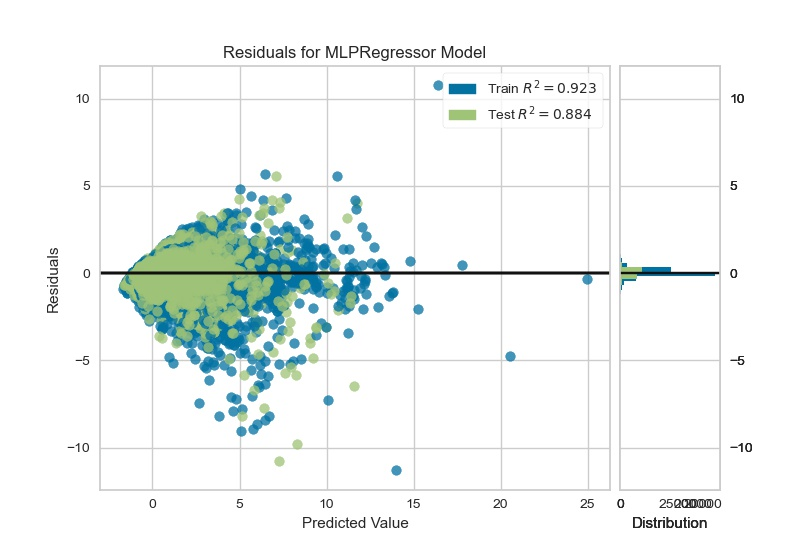
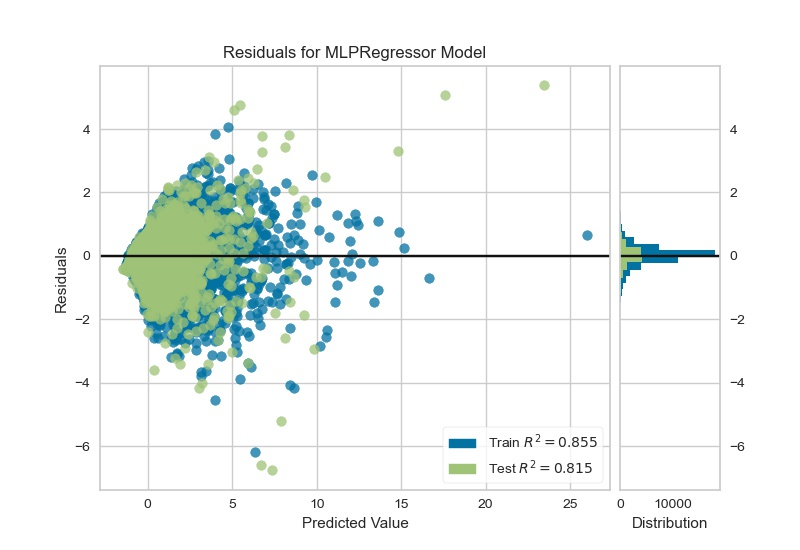
last changes

diff --git a/train_data_sklearn.py b/train_data_sklearn.py
@@ -1,80 +1,39 @@
+import pickle
+
 import numpy as np
 import pandas as pd
 from pandas import Series,DataFrame
 import matplotlib.pyplot as plt
-#sklearn库中的普通线性模型、岭回归模型、lasso模型
 from sklearn.ensemble import RandomForestRegressor
 from sklearn.linear_model import LinearRegression,Ridge,Lasso
-#模型效果评估
-from sklearn.metrics import r2_score,mean_absolute_error
-from sklearn.neural_network import MLPClassifier, MLPRegressor
-from yellowbrick.regressor import ResidualsPlot
 
+
+from standarizer import Standarizer
 from visualize import Visualizer
 
+
+FEAT_SELECTION=['decoration_condition', 'lift', 'framework', 'elevator', 'saloon', 'total', 'room', 'bath', 'scale', 'district', 'right_0', 'right_1', 'right_2', 'level', 'apt']
 if __name__ == '__main__':
 
-	train_data=pd.read_csv('data/train_data.csv')
-	test_data=pd.read_csv('data/test_data.csv')
 
-	#划分训练集和测试集的输入输出	
-	train_X = train_data.drop('average',axis=1)
-	train_X = train_X.drop('price',axis=1)
-	train_y = train_data['price']
-	test_X = test_data.drop('average', axis=1)
-	test_X = test_X.drop('price', axis=1)
-	test_y = test_data['price']
+	train_X=pd.read_csv('./data/train_feat.csv')
+	train_y=pd.read_csv('./data/train_label.csv')
+	test_X=pd.read_csv('./data/test_feat.csv')
+	test_y=pd.read_csv('./data/test_label.csv')
+
+	standardizer=Standarizer(FEAT_SELECTION)
+	train_X,train_y,test_X,test_y=standardizer.transform()
+	train_y,test_y=train_y.ravel(),test_y.ravel()
+
 
 	# visualizer init
 	visualizer=Visualizer(train_X,train_y,test_X,test_y)
 
-	#线性模型
+	#linear
 	line = LinearRegression()
 	line.fit(train_X,train_y)
 	visualizer.risidual_visualize(line,"result_pictures/Residual_linear.jpg")
+	filename = './models/line_model.sav'
+	line.fit(train_X, train_y)
+	pickle.dump(line, open(filename, 'wb'))
 
-	#随机森林模型
-	RF = RandomForestRegressor(max_depth=2, random_state=0)
-	RF.fit(train_X,train_y)
-	visualizer.risidual_visualize(RF,"result_pictures/Residual_random_forest.jpg")
-
-	# ann
-	clf = MLPRegressor(solver='sgd', alpha=1e-5,
-                    hidden_layer_sizes=(15,15,15), random_state=1,max_iter=500)
-	clf.fit(train_X,train_y)
-	visualizer.risidual_visualize(clf,"result_pictures/Residual_ann.jpg")
-
-	# rf_y_pre=RF.predict(test_X)
-	# plt.plot(test_y,label='True')
-	# plt.plot(ridge_y_pre,label='Ridge')
-	# plt.legend()
-	# plt.show()
-	# ridge_score=r2_score(test_y,ridge_y_pre)
-	# ridge_error=mean_absolute_error(test_y,ridge_y_pre)
-	# print(ridge_score)
-	# print(ridge_error)
-	# print('\n')
-	#
-	# #lasso模型
-	# lasso = Lasso()
-	# lasso.fit(train_X,train_y)
-	# lasso_y_pre=lasso.predict(test_X)
-	# plt.plot(test_y,label='True')
-	# plt.plot(lasso_y_pre,label='Lasso')
-	# plt.legend()
-	# plt.show()
-	# lasso_score=r2_score(test_y,lasso_y_pre)
-	# lasso_error=mean_absolute_error(test_y,lasso_y_pre)
-	# print(lasso_score)
-	# print(lasso_error)
-	# print('\n')
-
-
-''' n
-0.6969752140223003
-
-0.6969801503067232
-
-0.6969752635975008
-
-'''

diff --git a/random_forest.py b/random_forest.py
@@ -1,0 +1,72 @@
+import pickle
+
+import pandas as pd
+from sklearn.ensemble import RandomForestRegressor
+from sklearn.metrics import mean_squared_error
+from sklearn.model_selection import RandomizedSearchCV, GridSearchCV
+import numpy as np
+import pickle
+from standarizer import Standarizer
+from visualize import Visualizer
+
+FEAT_SELECTIONS=['decoration_condition', 'lift', 'framework', 'elevator', 'saloon', 'total', 'room', 'bath', 'scale','district','right_0','right_1','right_2','level','apt']
+
+# Number of trees in random forest
+n_estimators = [int(x) for x in np.linspace(start = 200, stop = 1000, num = 10)]
+# Number of features to consider at every split
+max_features = ['auto', 'sqrt','log2']
+# Maximum number of levels in tree
+max_depth = [int(x) for x in np.linspace(10, 40, num = 5)]
+max_depth.append(None)
+# Minimum number of samples required to split a node
+min_samples_split = [2, 5, 10,15,20]
+# Minimum number of samples required at each leaf node
+min_samples_leaf = [1, 2, 4,8]
+# Method of selecting samples for training each tree
+bootstrap = [True, False]
+# Create the random grid
+random_grid = {'n_estimators': n_estimators,
+               'max_features': max_features,
+               'max_depth': max_depth,
+               'min_samples_split': min_samples_split,
+               'min_samples_leaf': min_samples_leaf,
+               'bootstrap': bootstrap}
+
+train_X = pd.read_csv('./data/train_feat.csv')
+train_y = pd.read_csv('./data/train_label.csv')
+test_X = pd.read_csv('./data/test_feat.csv')
+test_y = pd.read_csv('./data/test_label.csv')
+
+standardizer = Standarizer(FEAT_SELECTIONS)
+train_X, train_y, test_X, test_y = standardizer.transform()
+train_y, test_y = train_y.ravel(), test_y.ravel()
+
+
+
+# Use the random grid to search for best hyperparameters
+# First create the base model to tune
+rf = RandomForestRegressor()
+# Random search of parameters, using 3 fold cross validation,
+# search across 100 different combinations, and use all available cores
+
+rf_random = RandomizedSearchCV(estimator = rf, param_distributions = random_grid, cv = 5, verbose=2, n_jobs = -1)
+
+# Fit the random search model
+rf_random.fit(train_X, train_y)
+
+visualizer = Visualizer(train_X, train_y, test_X, test_y)
+base_model = RandomForestRegressor(max_depth=10, random_state=42)
+base_model.fit(train_X, train_y)
+
+best_random = rf_random.best_params_
+best_estimator=RandomForestRegressor(**best_random)
+visualizer.risidual_visualize(base_model, "result_pictures/Residual_random_forest_base.jpg")
+visualizer.risidual_visualize(best_estimator, "result_pictures/Residual_random_forest_best.jpg")
+filename = './models/random_forest_model.sav'
+best_estimator.fit(train_X,train_y)
+pickle.dump(best_estimator, open(filename, 'wb'))
+
+
+
+
+

diff --git a/model_ann.py b/model_ann.py
@@ -9,18 +9,20 @@ from sklearn.metrics import r2_score, mean_absolute_error, mean_squared_error
 from sklearn.model_selection import RandomizedSearchCV
 from sklearn.neural_network import MLPClassifier, MLPRegressor
 from yellowbrick.regressor import ResidualsPlot
+import pickle
 
 from standarizer import Standarizer
 from visualize import Visualizer
 
-all_cols = ['coordinate_x',
-				 'coordinate_y', 'decoration_condition', 'deed',
-				 'elevator', 'facility0', 'facility1', 'facility2',
-				 'facility3', 'facility4', 'facility5', 'level',
-				 'total', 'framework',
-				 'ownership', 'apt', 'lift', 'district',
-				 'rights', 'scale', 'bath', 'room',
-				 'saloon','right_0', 'right_1', 'right_2']
+# FEAT_SELECTION = ['coordinate_x',
+# 				 'coordinate_y', 'decoration_condition', 'deed',
+# 				 'elevator', 'facility0', 'facility1', 'facility2',
+# 				 'facility3', 'facility4', 'facility5', 'level',
+# 				 'total', 'framework',
+# 				 'ownership', 'apt', 'lift', 'district',
+# 				 'rights', 'scale', 'bath', 'room',
+# 				 'saloon','right_0', 'right_1', 'right_2']
+FEAT_SELECTION=['decoration_condition', 'lift', 'framework', 'elevator', 'saloon', 'total', 'room', 'bath', 'scale', 'district', 'right_0', 'right_1', 'right_2', 'level', 'apt']
 
 
 
@@ -32,7 +34,7 @@ if __name__ == '__main__':
 	test_X=pd.read_csv('./data/test_feat.csv')
 	test_y=pd.read_csv('./data/test_label.csv')
 
-	standardizer=Standarizer(all_cols)
+	standardizer=Standarizer(FEAT_SELECTION)
 	train_X,train_y,test_X,test_y=standardizer.transform()
 	train_y,test_y=train_y.ravel(),test_y.ravel()
 
@@ -49,18 +51,20 @@ if __name__ == '__main__':
 
 	# random search
 	# mlpr = MLPRegressor(max_iter=5000)
-	# randCV = RandomizedSearchCV(estimator=mlpr, param_distributions = parameter_space,cv = 5, verbose=2, random_state=42, n_jobs = -1)
+	# randCV = RandomizedSearchCV(estimator=mlpr, param_distributions = parameter_space,cv = 10, verbose=2, random_state=42, n_jobs = -1)
 	# randCV.fit(train_X,train_y)
 	# best_random = randCV.best_params_
 	# best_estimator=MLPRegressor(**best_random)
 
 	# ann
 	mlpr = MLPRegressor(solver='lbfgs', alpha=1e-5,
-					   hidden_layer_sizes=(15, 15, 15), random_state=1, max_iter=5000)
+					   hidden_layer_sizes=(15, 15, 15), random_state=1, max_iter=10000)
 	# mlpr.fit(train_X[FEAT_SELECTION], train_y)
 
 
 	visualizer.risidual_visualize(mlpr,"result_pictures/Residual_ann.jpg")
-
+	filename = './models/ann_model.sav'
+	mlpr.fit(train_X, train_y)
+	pickle.dump(mlpr, open(filename, 'wb'))
 
 

diff --git a/drop_and_split.py b/drop_and_split.py
@@ -28,7 +28,7 @@ if __name__ == '__main__':
 					 'facility3', 'facility4', 'facility5', 'level',
 					 'total', 'framework',
 					 'ownership', 'apt', 'lift', 'district',
-					 'rights', 'scale', 'bath', 'room',
+					 'scale', 'bath', 'room',
 					 'saloon']
 	y=data['price']
 	tmp = data[numeric_attrs]
